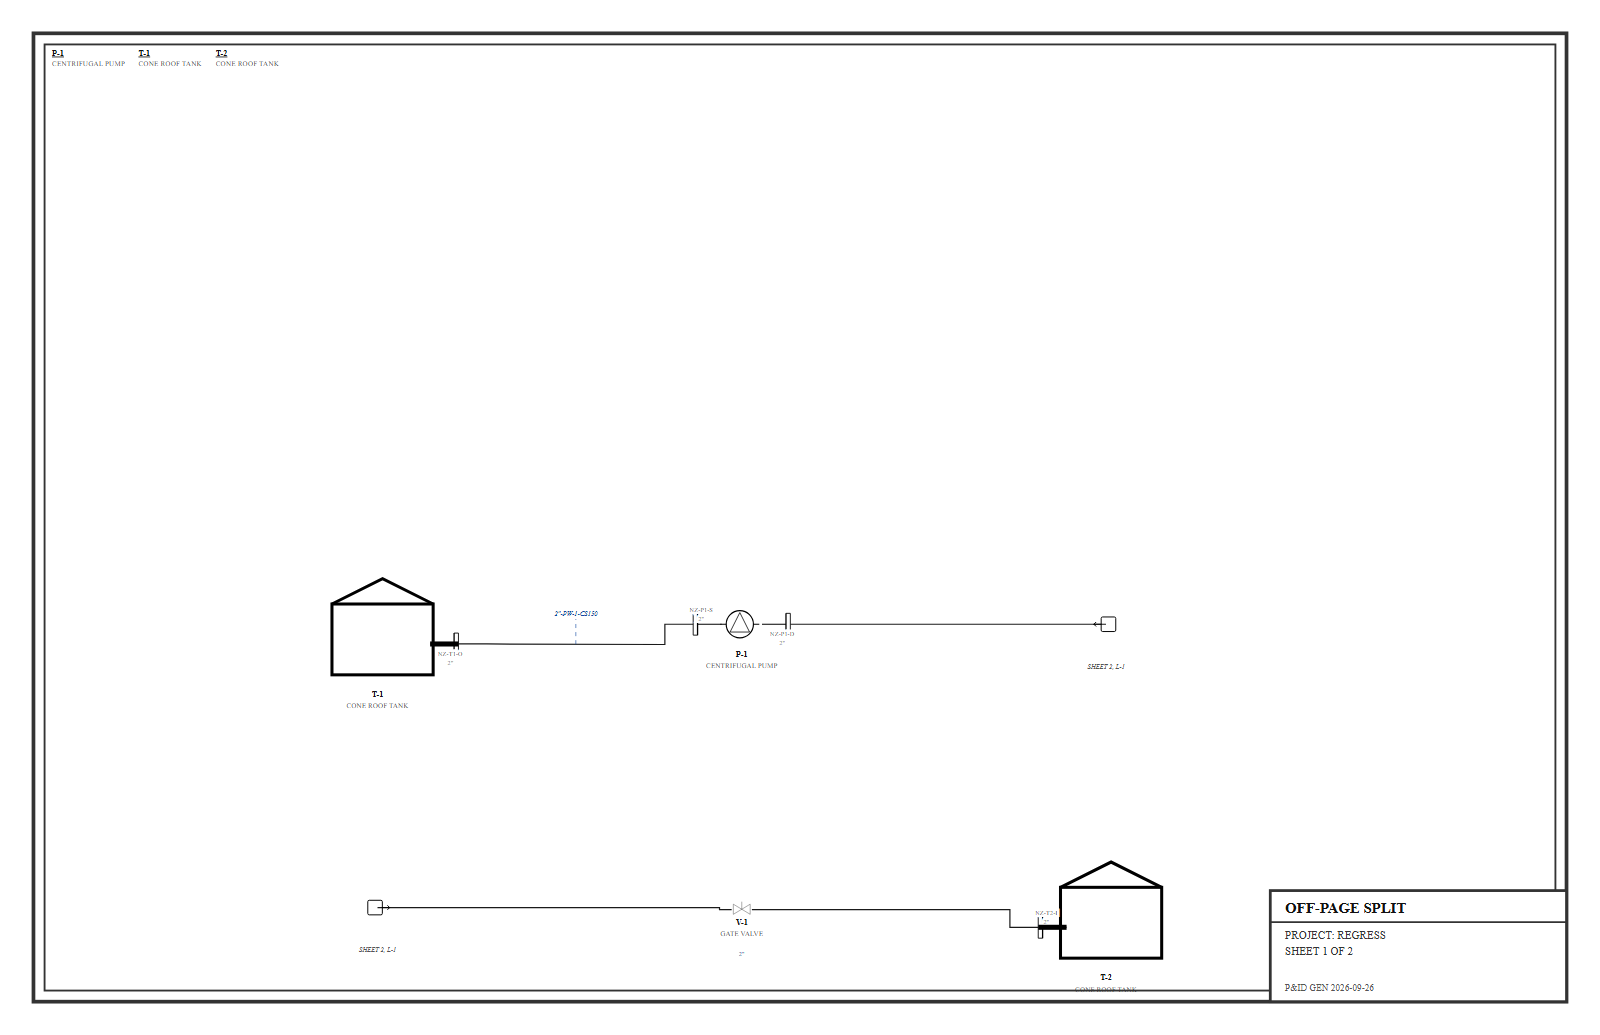
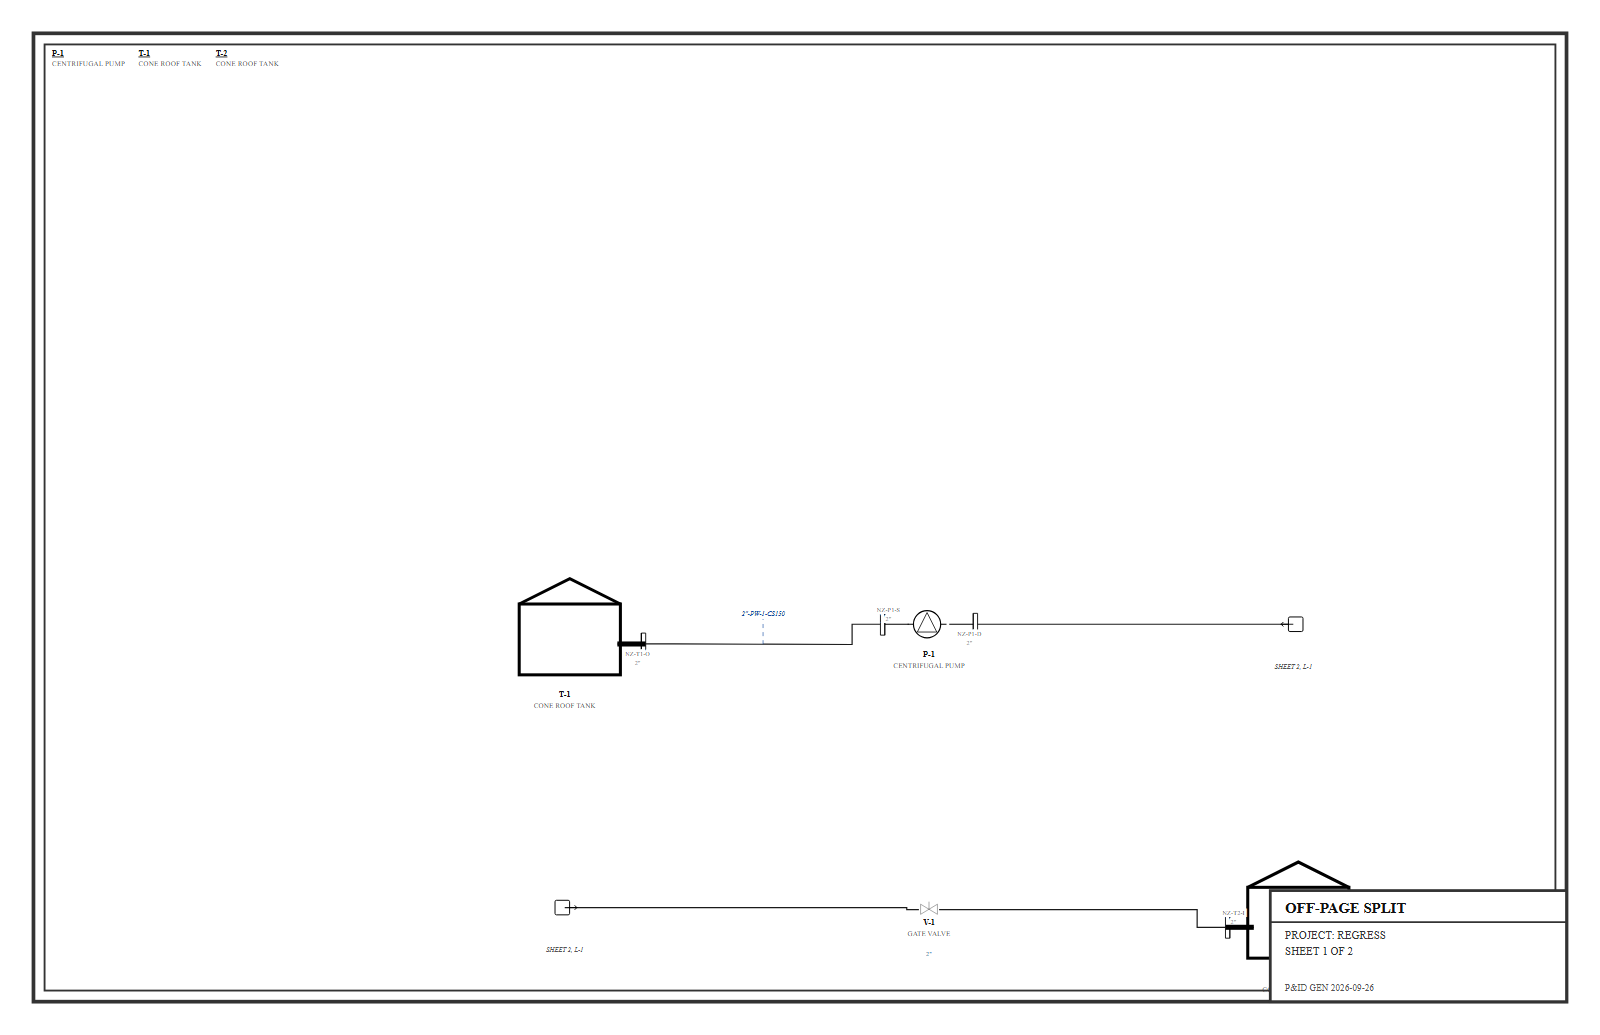
Centre the drawing instead of anchoring it top-left, and measure bold tag widths as bold rather than as mixed case.
Two more defects, both found by looking at a render rather than at a score.

1. THE FIT WRAP THREW ALL THE SLACK IN ONE DIRECTION.

   wrap = `<g transform="translate(${pad - minX*k} ${pad - minY*k}) scale(${k})">`;

That anchors the content's TOP-LEFT to the frame corner, so any drawing shorter than
the sheet sat hard against the top with every spare millimetre dumped below it. On the
demo that was ~158mm of dead space along the bottom edge plus an entirely empty
lower-left quadrant -- the content looked "pushed up" rather than merely small.

It also silently discarded the centring autoLayout had already done, because that
works in layout coordinates and the wrap re-anchors afterwards. Two passes, one
invisible: the same class of bug as 9.65's overlay coordinates and 9.64's audit.

Now centred: translate(pad + (dw - cw*k)/2 - minX*k, ...). The slack splits evenly,
which is what a drafter does by eye.

2. THE COLLISION METRIC WAS MEASURING BOLD CAPS AS IF THEY WERE MIXED CASE.

textBox used 0.55em for everything. That is the mixed-case average, and the equipment
tags and valve tags are BOLD UPPERCASE, nearer 0.68em, so every bold tag box was about
20% too narrow.

That is not a rounding detail. It is why the demo reported labelCollisions: 0 while
V-103 GATE VALVE visibly sits on top of FV-101 CONTROL VALVE and PSV-101 overlaps
the pair. The metric could not see the pile-up, so the layout had no reason to avoid
it -- to the engine there was nothing there to avoid.
[…]

diff --git a/pid-generator/pid-renderer.js b/pid-generator/pid-renderer.js
@@ -356,7 +356,20 @@ function renderInto(svg, data, themeName) {
 // (see the assembly), so the frame, title block, north arrow, legend and the
 // equipment tag list all stay at 1:1 as intended.
 k = Math.min((W - 2 * pad) / cw, (H - 2 * pad) / ch);
-      wrap = `<g transform="translate(${pad - minX * k} ${pad - minY * k}) scale(${k})">`;
+      // Centre the scaled content in the drawable area, do not anchor its top-left.
+    //
+    // This was throwing away the slack in one direction. `pad - minX*k` puts the
+    // content's minimum at the frame corner, so any drawing shorter than the sheet sat
+    // hard against the TOP with every spare millimetre dumped below it -- the demo had
+    // ~158mm of dead space along the bottom edge and a completely empty lower-left
+    // quadrant. It also silently discarded the centring `autoLayout` had already done,
+    // since that works in layout coordinates and the wrap re-anchors afterwards.
+    //
+    // Centring splits the slack evenly, which is what a drafter does by eye.
+    const dw = W - 2 * pad, dh = H - 2 * pad;
+    const tx = pad + (dw - cw * k) / 2 - minX * k;
+    const ty = pad + (dh - ch * k) / 2 - minY * k;
+    wrap = `<g transform="translate(${tx} ${ty}) scale(${k})">`;
     } else {
       W = maxX + 20; H = maxY + 20;
     }
@@ -1545,8 +1558,21 @@ const shiftFor = (lineIdx, x) => {
     // pipe's longest straight segment, on a short leader offset off the line (never
     // on it), rotated with the segment. Collision-scored against boxes/bubbles.
     // ponytail: text box in pidTextBoxes math (audit agrees by construction)
-    const textBox = (x, y, str, fnt, mid = true) => {
-      const w = String(str).length * fnt * 0.55, h = fnt * 1.15;
+    // Advance width per em, by ROLE. 0.55em is the mixed-case average and it was used
+  // for everything, including the BOLD uppercase tag lines -- which are nearer 0.68em.
+  // That made every bold tag box about 20% too narrow, so the collision metric could
+  // not see overlaps that are obvious on the sheet: the demo reports
+  // `labelCollisions: 0` while V-103 GATE VALVE sits on top of FV-101 CONTROL VALVE.
+  // The layout then has no reason to avoid the pile-up, because to it there is none.
+  //
+  // Same root cause as T4.4 (the metric counts characters, so it cannot be
+  // case-sensitive) and the same reason `drawnWidth` was reverted in 9.60: a flat
+  // average cannot express the difference. These factors at least separate the roles
+  // that actually differ.
+  const WIDTH_EM = { regular: 0.55, medium: 0.58, bold: 0.68 };
+  const widthEm = (str, fnt, em) => String(str == null ? '' : str).length * fnt * (em || WIDTH_EM.regular);
+  const textBox = (x, y, str, fnt, mid = true, em) => {
+      const w = widthEm(str, fnt, em), h = fnt * 1.15;
       return mid ? { x0: x - w / 2, x1: x + w / 2, y0: y - h, y1: y } : { x0: x, x1: x + w, y0: y - h, y1: y };
     };
     // ponytail: L6 — nozzle tags pick the clear side (default normal, else
@@ -1732,7 +1758,7 @@ const shiftFor = (lineIdx, x) => {
         // tag below the equipment, close to the symbol
         const ty = e.y + s / 2 + 3.5;
         g += `<text x="${e.x}" y="${ty}" text-anchor="middle" font-size="${fs(3.2)}" font-weight="bold" fill="#111" text-decoration="underline" paint-order="stroke" stroke="white" stroke-width="3">${esc(tag)}</text>`;
-        eqBoxes.push(textBox(e.x, ty, tag, fs(3.2)));
+        eqBoxes.push(textBox(e.x, ty, tag, fs(3.2), true, WIDTH_EM.bold));
         if (!e.noTypeLabel) g += `<text x="${e.x}" y="${ty + 5.5}" text-anchor="middle" font-size="${fs(2.8)}" fill="#666" paint-order="stroke" stroke="white" stroke-width="3">${esc(TYPE_LABELS[e.type] || e.type)}</text>`;
         if (!e.noTypeLabel) eqBoxes.push(textBox(e.x, ty + 5.5, TYPE_LABELS[e.type] || e.type, fs(2.8)));
       }
@@ -1795,17 +1821,18 @@ const shiftFor = (lineIdx, x) => {
         const tx = vertical ? v.x + s / 2 + 3 : v.x;
         const ty = vertical ? v.y + 1 : v.y + s / 2 + 3.5;
         const typeLabel = TYPE_LABELS[v.type] || v.type;
-        const rows = [[tag, fs(3.0), 0]];
+        // [string, size, offset, width-em-role] -- the role travels with the row so the
+        const rows = [[tag, fs(3.0), 0, WIDTH_EM.bold]];
         if (!v.noTypeLabel) rows.push([typeLabel, fs(2.8), 5.5]);
-        if (state) rows.push([state, fs(2.3), 10.5]); // emission-fixed offsets
+        if (state) rows.push([state, fs(2.3), 10.5, WIDTH_EM.regular]); // emission-fixed offsets
         // Derived line size (T7.12). Added as a ROW of the existing stack rather than
         // drawn independently, so it inherits the above/below flip and the collision
         // test at 1734. A separately positioned size would have to re-implement both.
         // Blue like the line designations, because that is what it is: a property of
         // the pipe, not of the valve.
         const sizeLabel = v.sizeLabel || '';
-        if (sizeLabel) rows.push([sizeLabel, fs(2.3), 15.5]);
-        const stackBoxes = (fx, fy, mid, dir) => rows.map(([str, fnt, off]) => mid
+        if (sizeLabel) rows.push([sizeLabel, fs(2.3), 15.5, WIDTH_EM.regular]);
+        const stackBoxes = (fx, fy, mid, dir) => rows.map(([str, fnt, off, role]) => mid
           ? textBox(fx, fy + dir * off, str, fnt)
           : { x0: fx - (dir < 0 ? String(str).length * fnt * 0.55 : 0), x1: fx + (dir < 0 ? 0 : String(str).length * fnt * 0.55), y0: fy - fnt * 1.15, y1: fy });
         const zones = [...nozzleBoxes, ...eqBoxes];

diff --git a/pid-generator/P&ID-VISUAL-QUALITY.md b/pid-generator/P&ID-VISUAL-QUALITY.md
@@ -3461,6 +3461,70 @@ The right fix is to the check, not the layout: compare like with like, or drop t
 assertion and report the multi-start score as a diagnostic alongside the default rather
 than as a pass/fail gate. Filed as **T0.3**. Until then this line is expected to be red
 and is left visible.
+### 9.70 Centre the drawing, and stop lying about tag widths
+
+Two more defects, both found by looking at a render rather than at a score.
+
+#### 1. The fit wrap threw all the slack in one direction
+
+```js
+wrap = `<g transform="translate(${pad - minX * k} ${pad - minY * k}) scale(${k})">`;
+```
+
+That anchors the content's **top-left** to the frame corner, so any drawing shorter than
+the sheet sat hard against the top with every spare millimetre dumped below it. On the
+demo that was ~158mm of dead space along the bottom edge plus an entirely empty lower-left
+quadrant — and the content looked "pushed up" rather than merely small.
+
+It also **silently discarded the centring `autoLayout` had already done**, because that
+works in layout coordinates and the wrap re-anchors afterwards. Two passes, one invisible:
+the same class of bug as 9.65's overlay coordinates and 9.64's audit.
+
+Now centred: `translate(pad + (dw - cw*k)/2 - minX*k, ...)`. The slack splits evenly, which
+is what a drafter does by eye.
+
+#### 2. The collision metric was measuring bold caps as if they were mixed case
+
+`textBox` used `0.55em` for everything. That is the **mixed-case** average, and the
+equipment tags and valve tags are **bold uppercase**, nearer `0.68em`. Every bold tag box
+was therefore about 20% too narrow.
+
+That is not a rounding detail, it is why the demo reported **`labelCollisions: 0`** while
+`V-103 GATE VALVE` visibly sits on top of `FV-101 CONTROL VALVE` and `PSV-101` overlaps
+the pair. The metric could not see the pile-up, so **the layout had no reason to avoid it**
+— to the engine there was nothing there to avoid. Same root cause as T4.4 and as the
+reverted `drawnWidth` in 9.60: a flat average cannot express the difference.
+
+Added `WIDTH_EM = { regular: 0.55, medium: 0.58, bold: 0.68 }` and carried a **role**
+through the valve label stack (`[string, size, offset, role]`) so each row is measured with
+the factor that matches how it is actually drawn. The tag line is bold; the type and state
+lines are not.
+
+#### Effect
+
+```
+                    before    after
+  demo util          40%       66%
+  demo score        360       356
+  spike labelColl     3         2
+```
+
+Utilisation on the demo is now **66%**, up from 40% before this pass and from the 61% the
+fill term alone bought. The score is marginally better too, so the wider boxes are finding
+placements that were already fine rather than forcing churn.
+
+#### What is still wrong, named precisely
+
+The drawing is still an **L**: a long horizontal run to V-104 in the bottom-right, and
+an empty lower-left quadrant. Utilisation reads 66% because it measures the bounding-box
+**area**, and an L-shaped bbox is mostly empty. **A drawing can use area badly and still
+score well on area** — that is a limit of the metric, not of the layout.
+
+The cause is the layered assignment: every depth level gets a full-width column, so the
+last element of a long chain is stranded a whole row away from everything else. Fixing it
+means the constraint-declaring rewrite (T2) — per-level width proportional to its own
+occupancy — not another score term. The valve cluster in the middle is the other visible
+problem and it is now at least *measurable*, which it was not before.
 ### 9.57 Still outstanding after this pass
 - **Pipes record no port binding** (`T7.13`) — a pipe is `{from, to}` with no port
 
